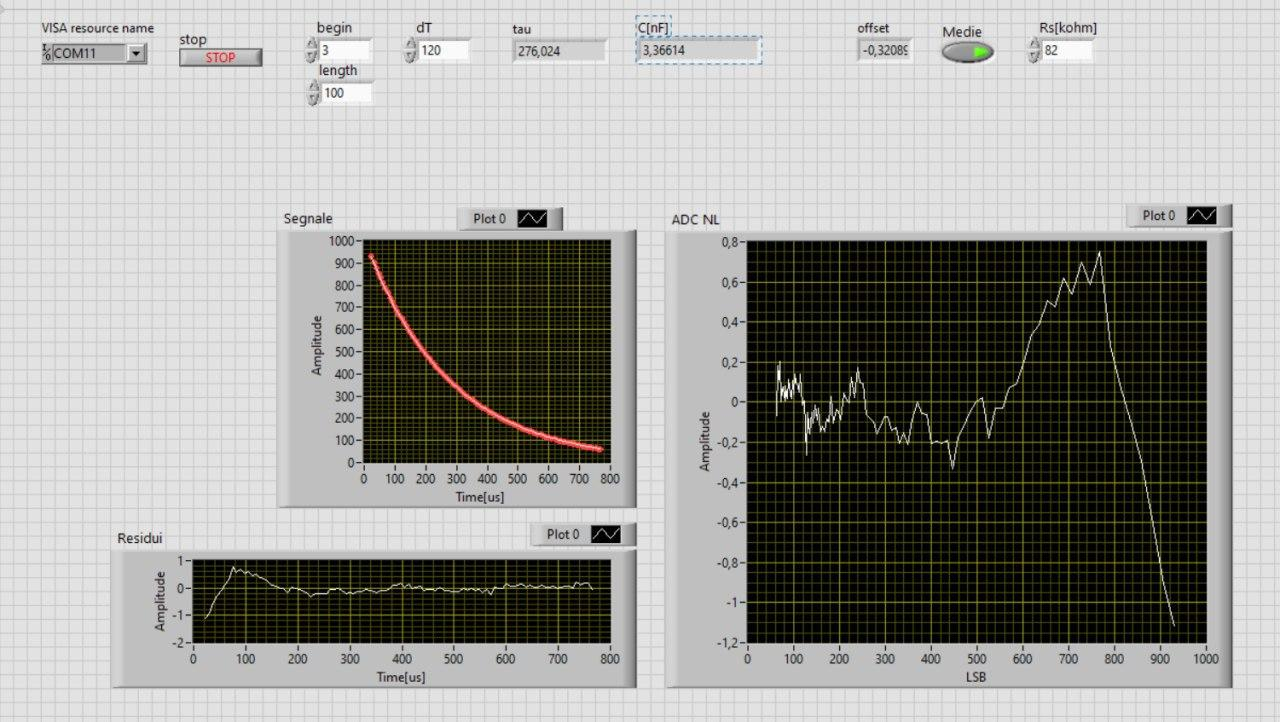
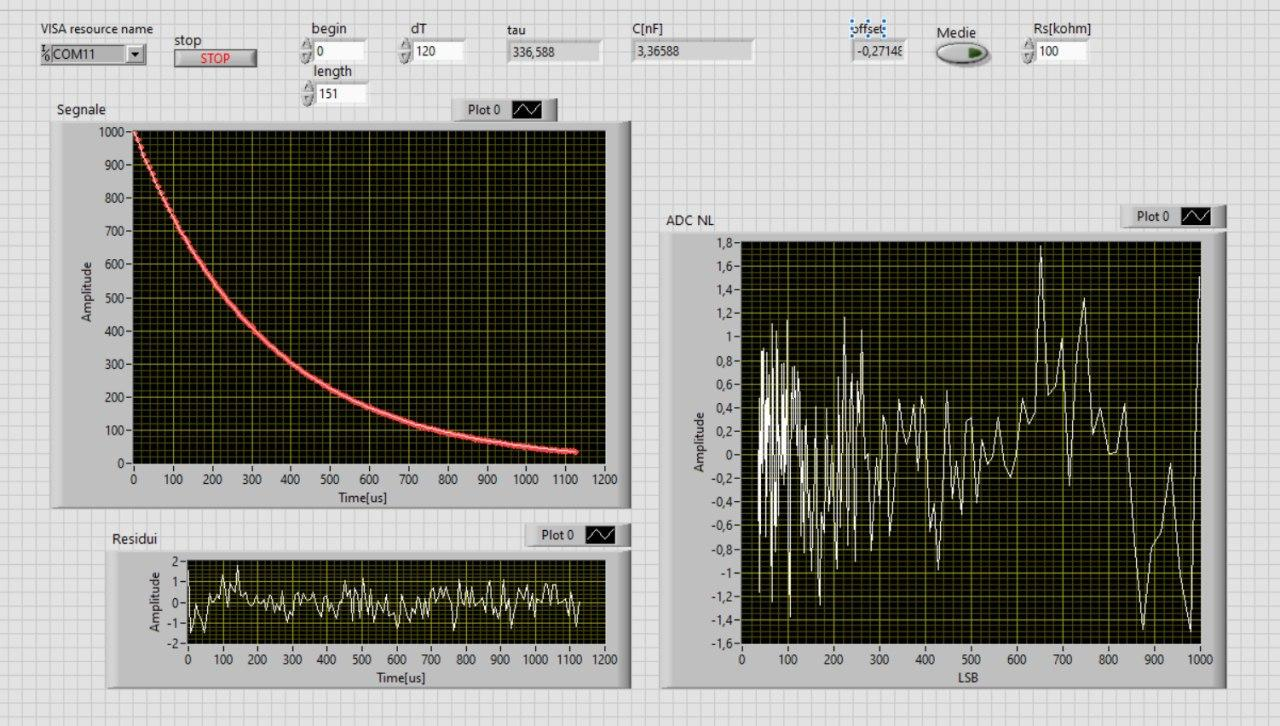
doc

diff --git a/Capacimeter/README.md b/Capacimeter/README.md
@@ -12,7 +12,7 @@ For all the three versions of this project, the circuit scheme is shown below
 
   > 1 nF - 1 &mu;F  
   >
-  > 1 pF - 1 &mu;F ("advanced" version, which **requires LabView**) 
+  > 10 pF - 1 &mu;F ("advanced" version, which **requires LabView**) 
 
 * **Resistor value** : 100 k&Omega;   
 
@@ -68,8 +68,9 @@ To efficiently employ dithering, the noise network (50 Hz) must be unrelated wit
 To reduce the offset error, we can employ an exponential fitting . Here's the front panel and the labview G language program.
 
 <p align="center">
-  <img src="frontpanel.jpg" width="700" title="front panel">
+  <img src="frontpanel.jpg" width="900" title="front panel">
 </p>
+
 <p align="center">
   <img src="labview.jpg" width="900" title="LabView diagram">
 </p>

diff --git a/Oscilloscope/README.md b/Oscilloscope/README.md
@@ -1,0 +1,32 @@
+<span style="color:red">This project requires LabView.</span>
+
+## Circuit 
+
+The scheme of the circuit is shown below
+
+<p align="center">
+  <img src="scheme.png" width="600" title="circuit scheme">
+</p>
+
+### Components
+
+* 3x 4.7 k&Omega; resistor
+* 2x 1 k&Omega; resistor
+* 2x 1 &mu;F resistor
+* 1x 22 k&Omega; potentiometer
+* 1x 3.5 mm audio jack
+
+### How to use 
+
+* A3 : Channel 2
+* A2 : Channel 1
+
+* Potentiometer : Trigger
+* audio jack : input audio source
+
+
+
+## Code Description
+
+
+
